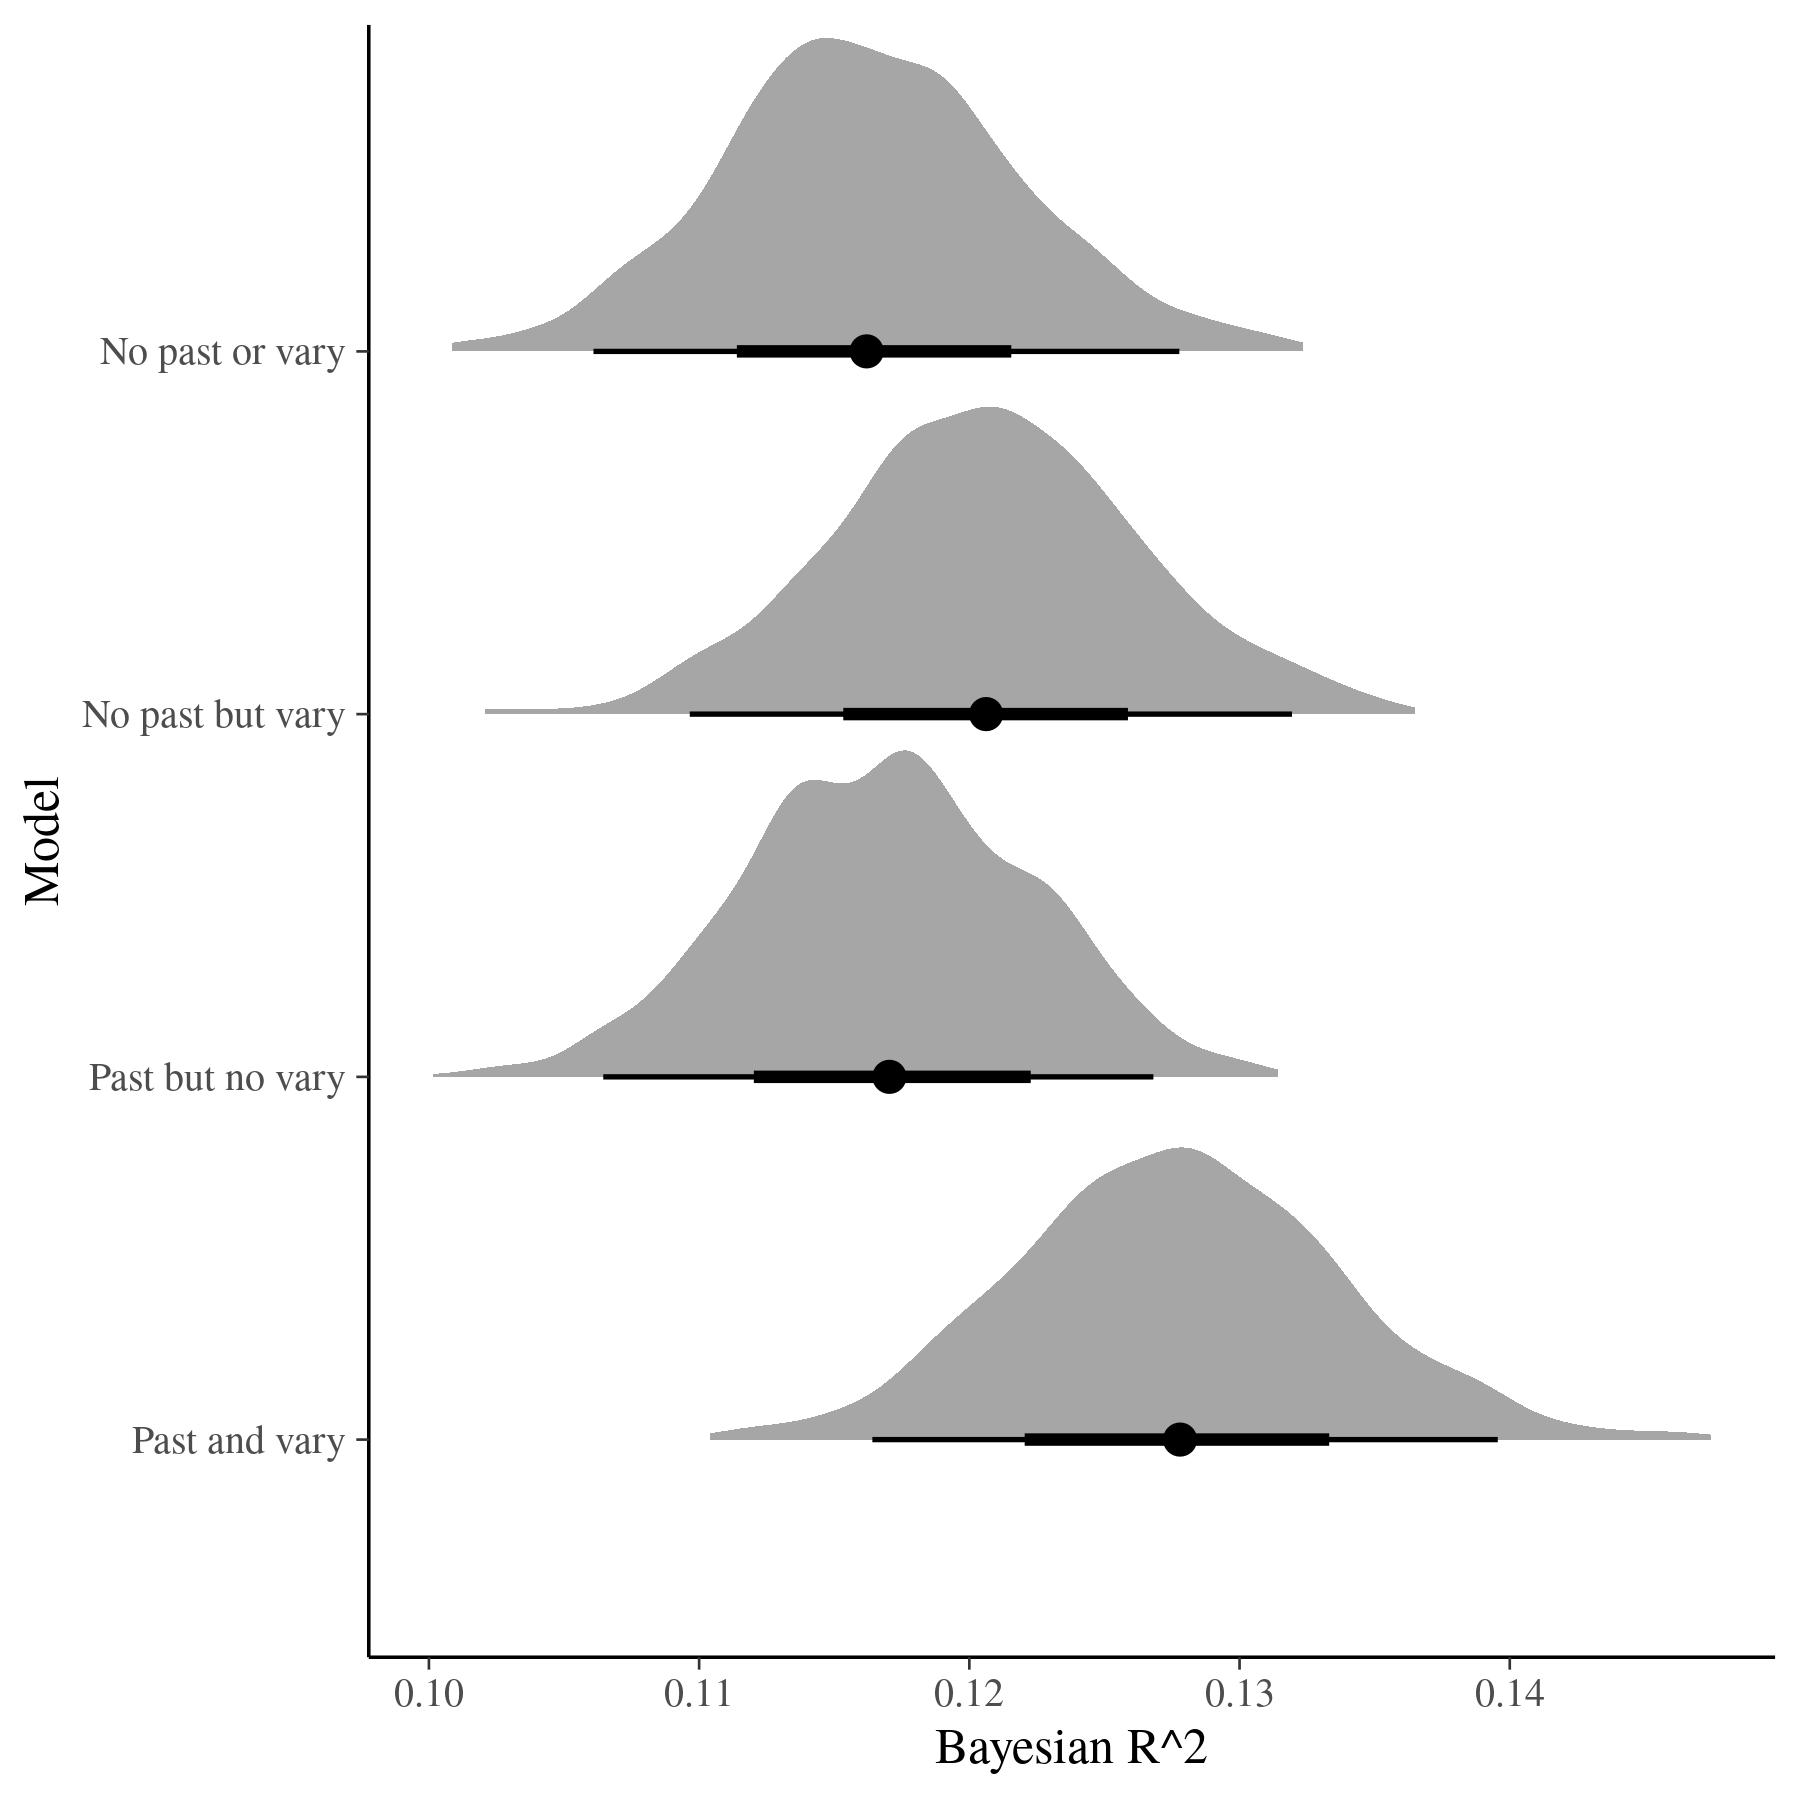
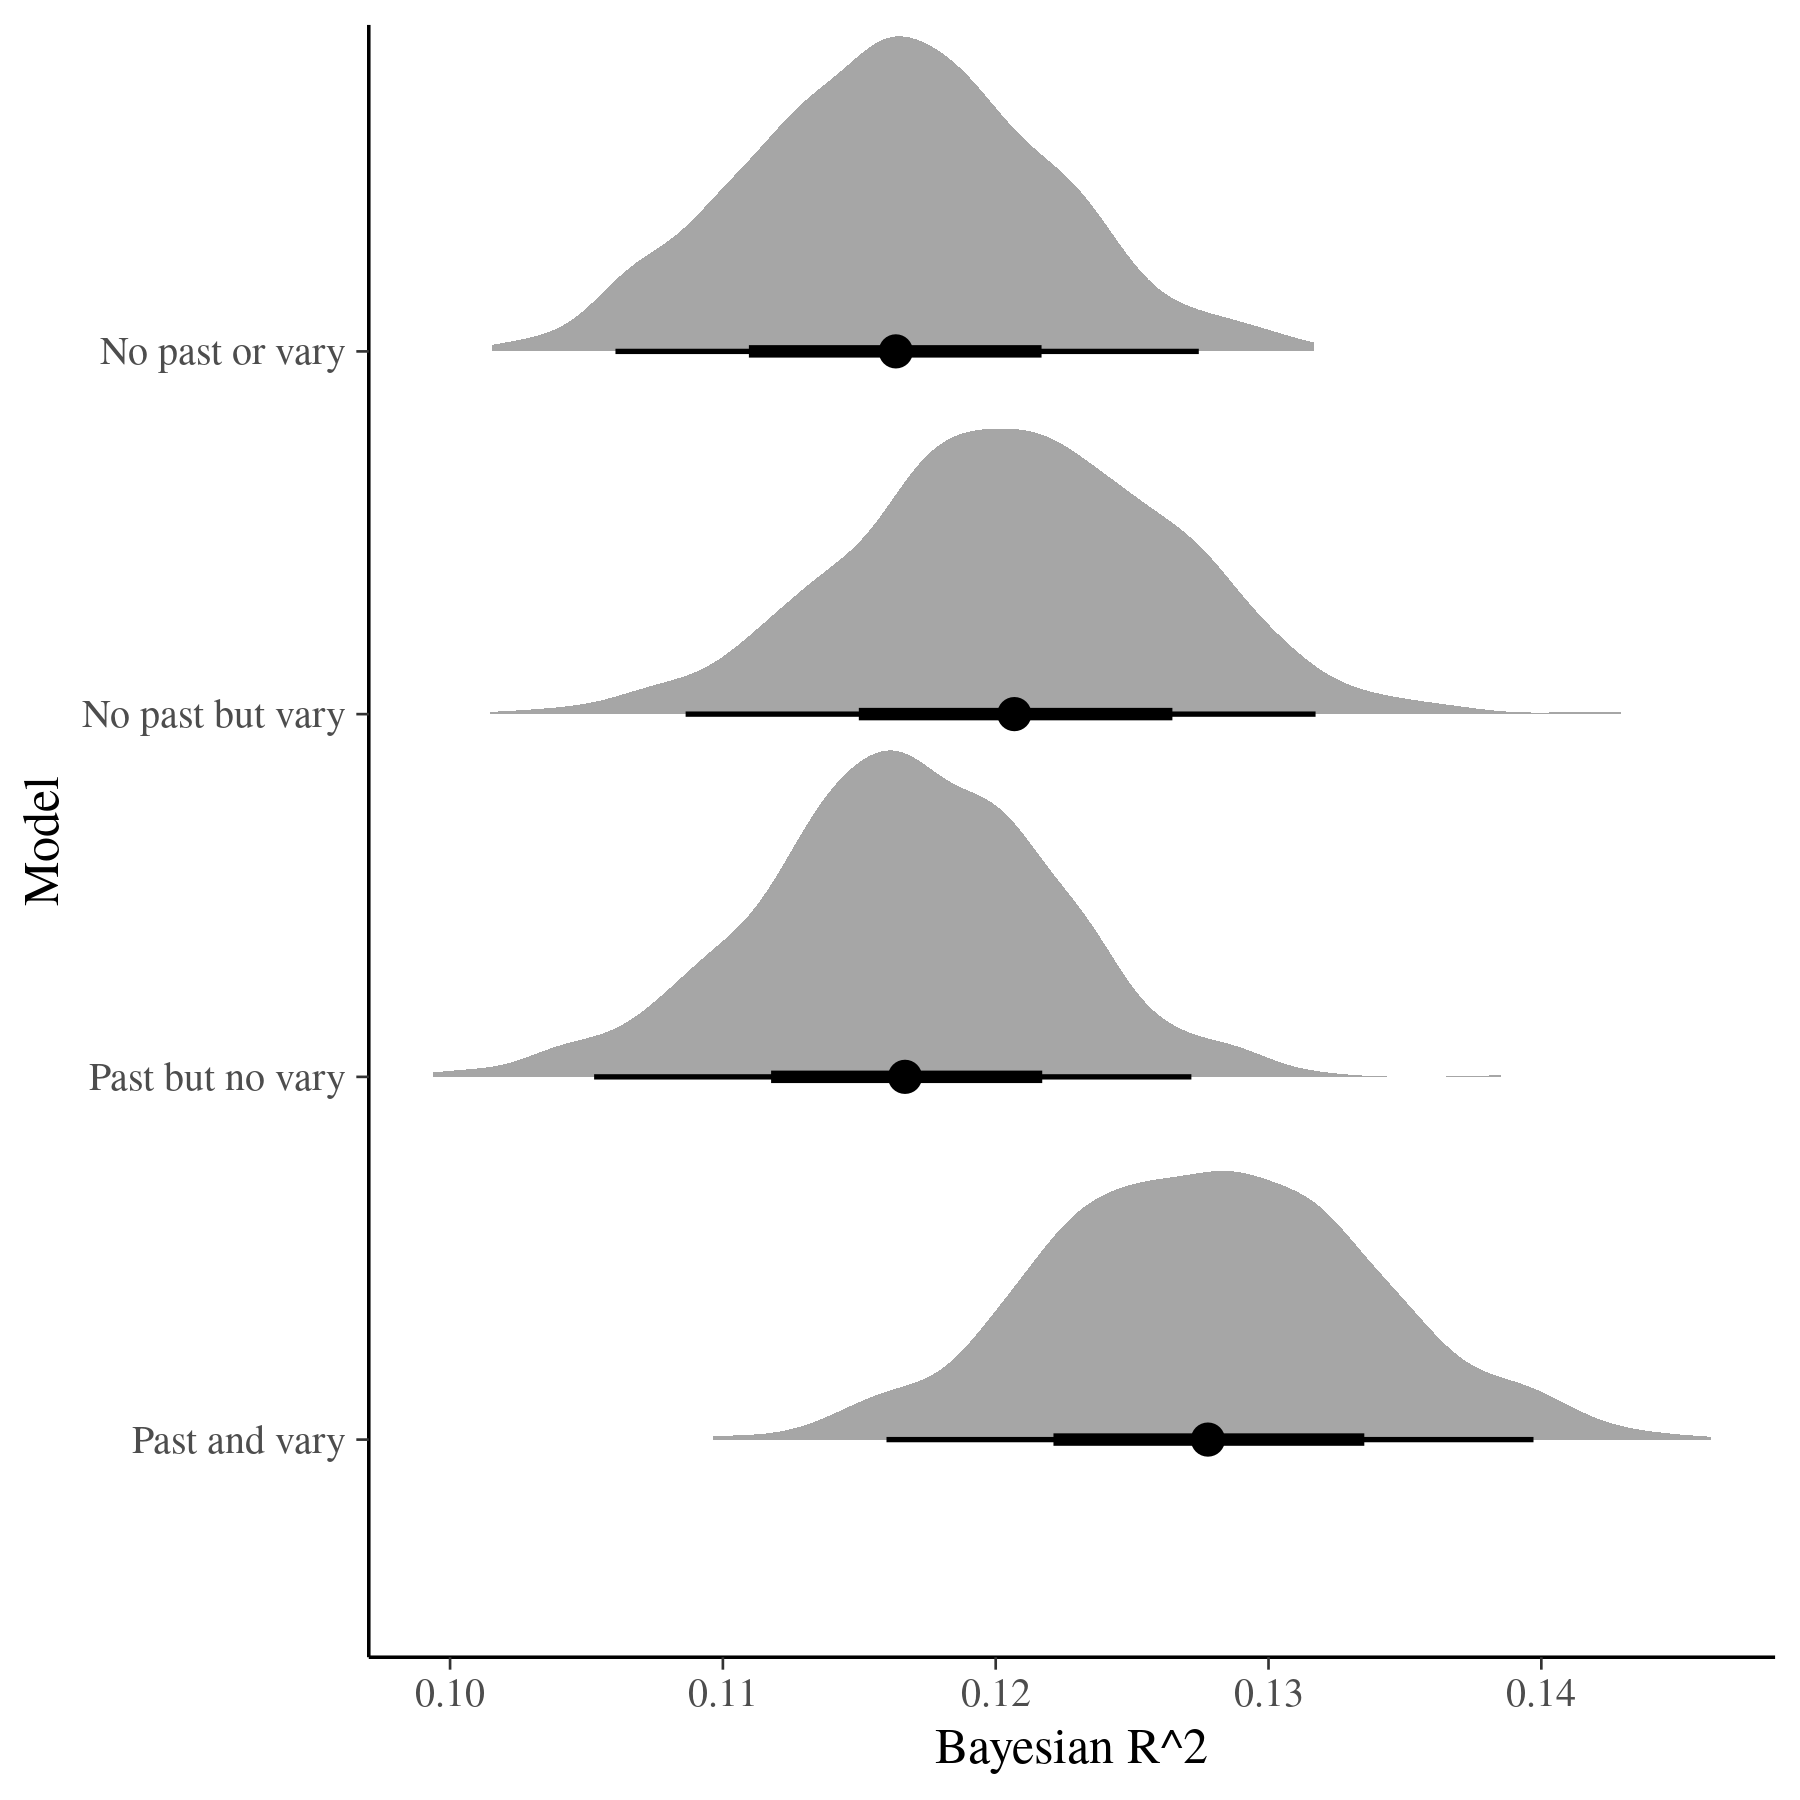
redid in-sample performance graphs

diff --git a/results/waic_tab_draft.tex b/results/waic_tab_draft.tex
@@ -1,15 +1,15 @@
 % latex table generated in R 3.5.1 by xtable 1.8-2 package
-% Fri Oct 19 12:32:47 2018
+% Fri Oct 26 12:40:19 2018
 \begin{table}[ht]
 \centering
 \begin{tabular}{rrrrrrrr}
   \hline
  & elpd\_diff & elpd\_waic & se\_elpd\_waic & p\_waic & se\_p\_waic & waic & se\_waic \\ 
   \hline
-Past and vary & 0.00 & -6392.88 & 89.49 & 274.02 & 5.21 & 12785.76 & 178.97 \\ 
-  No past but vary & -14.98 & -6407.86 & 89.34 & 218.18 & 4.17 & 12815.72 & 178.68 \\ 
-  No past or vary & -30.90 & -6423.78 & 89.71 & 177.07 & 3.23 & 12847.56 & 179.41 \\ 
-  Past but no vary & -31.36 & -6424.25 & 89.69 & 178.25 & 3.24 & 12848.49 & 179.39 \\ 
+Past and vary & 0.00 & -6392.06 & 89.36 & 271.78 & 5.16 & 12784.13 & 178.72 \\ 
+  No past but vary & -16.70 & -6408.77 & 89.39 & 219.82 & 4.20 & 12817.53 & 178.78 \\ 
+  No past or vary & -32.04 & -6424.11 & 89.70 & 176.70 & 3.23 & 12848.22 & 179.39 \\ 
+  Past but no vary & -32.88 & -6424.95 & 89.66 & 178.47 & 3.24 & 12849.89 & 179.32 \\ 
    \hline
 \end{tabular}
 \end{table}

diff --git a/results/loo_tab_draft.tex b/results/loo_tab_draft.tex
@@ -1,15 +1,15 @@
 % latex table generated in R 3.5.1 by xtable 1.8-2 package
-% Fri Oct 19 12:19:52 2018
+% Fri Oct 26 12:34:02 2018
 \begin{table}[ht]
 \centering
 \begin{tabular}{rrrrrrrr}
   \hline
  & elpd\_diff & elpd\_loo & se\_elpd\_loo & p\_loo & se\_p\_loo & looic & se\_looic \\ 
   \hline
-Past and vary & 0.00 & -6395.04 & 89.52 & 276.18 & 5.25 & 12790.08 & 179.03 \\ 
-  No past but vary & -14.37 & -6409.41 & 89.37 & 219.73 & 4.19 & 12818.82 & 178.73 \\ 
-  No past or vary & -29.91 & -6424.95 & 89.72 & 178.24 & 3.25 & 12849.90 & 179.45 \\ 
-  Past but no vary & -30.35 & -6425.39 & 89.71 & 179.39 & 3.26 & 12850.78 & 179.42 \\ 
+Past and vary & 0.00 & -6394.27 & 89.39 & 273.98 & 5.20 & 12788.54 & 178.78 \\ 
+  No past but vary & -16.07 & -6410.34 & 89.41 & 221.40 & 4.23 & 12820.68 & 178.83 \\ 
+  No past or vary & -31.00 & -6425.27 & 89.72 & 177.87 & 3.25 & 12850.55 & 179.43 \\ 
+  Past but no vary & -31.85 & -6426.12 & 89.68 & 179.65 & 3.26 & 12852.24 & 179.35 \\ 
    \hline
 \end{tabular}
 \end{table}
